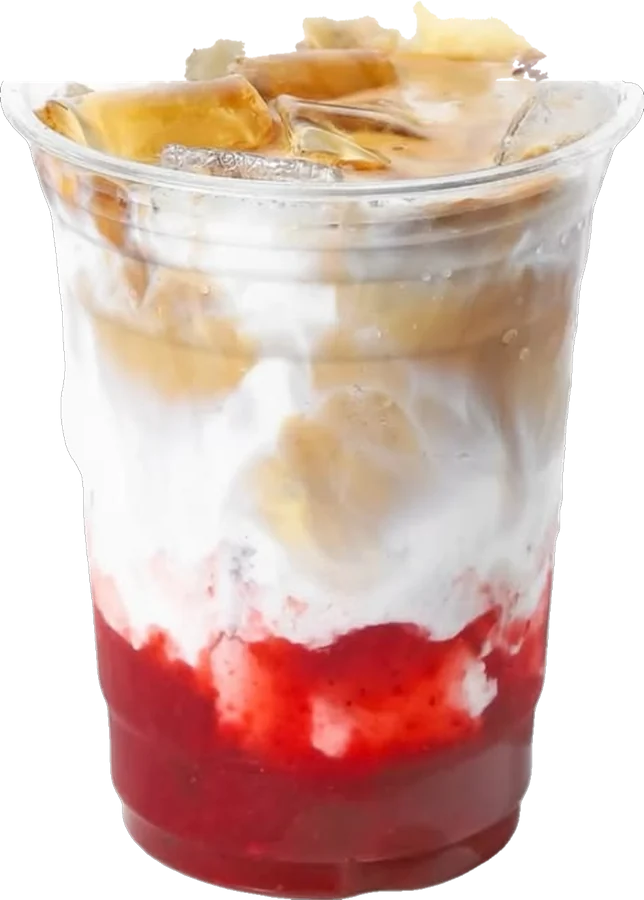
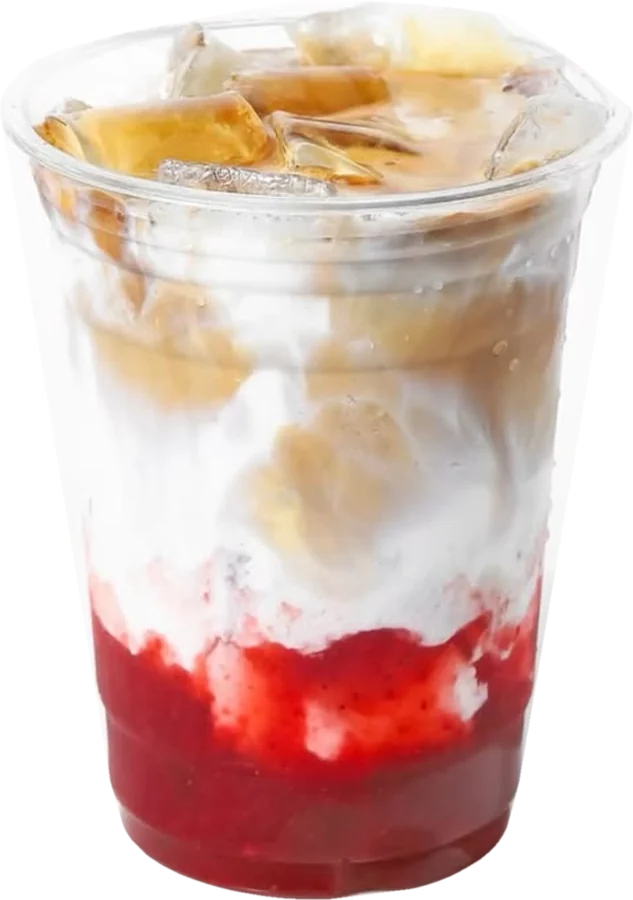
Strawberry Latte: foto recortada pela boca do copo e versão no link para não usar a antiga em cache
Claude-Session: https://claude.ai/code/session_01MbHnMsLhrJSkxDdXnUMqn7

diff --git a/bebidas.js b/bebidas.js
@@ -350,7 +350,7 @@ window.TOSTES = {
     {
       id: "strawberry-latte",
       categoria: "lattes",
-      foto: "img/strawberry-latte.webp",
+      foto: "img/strawberry-latte.webp?v=3",
       escala: 0.92,
       preco: 18.00,
       fundo: { topo: "#F3C3BD", base: "#FFF6F2", luz: "#E2505A" },
